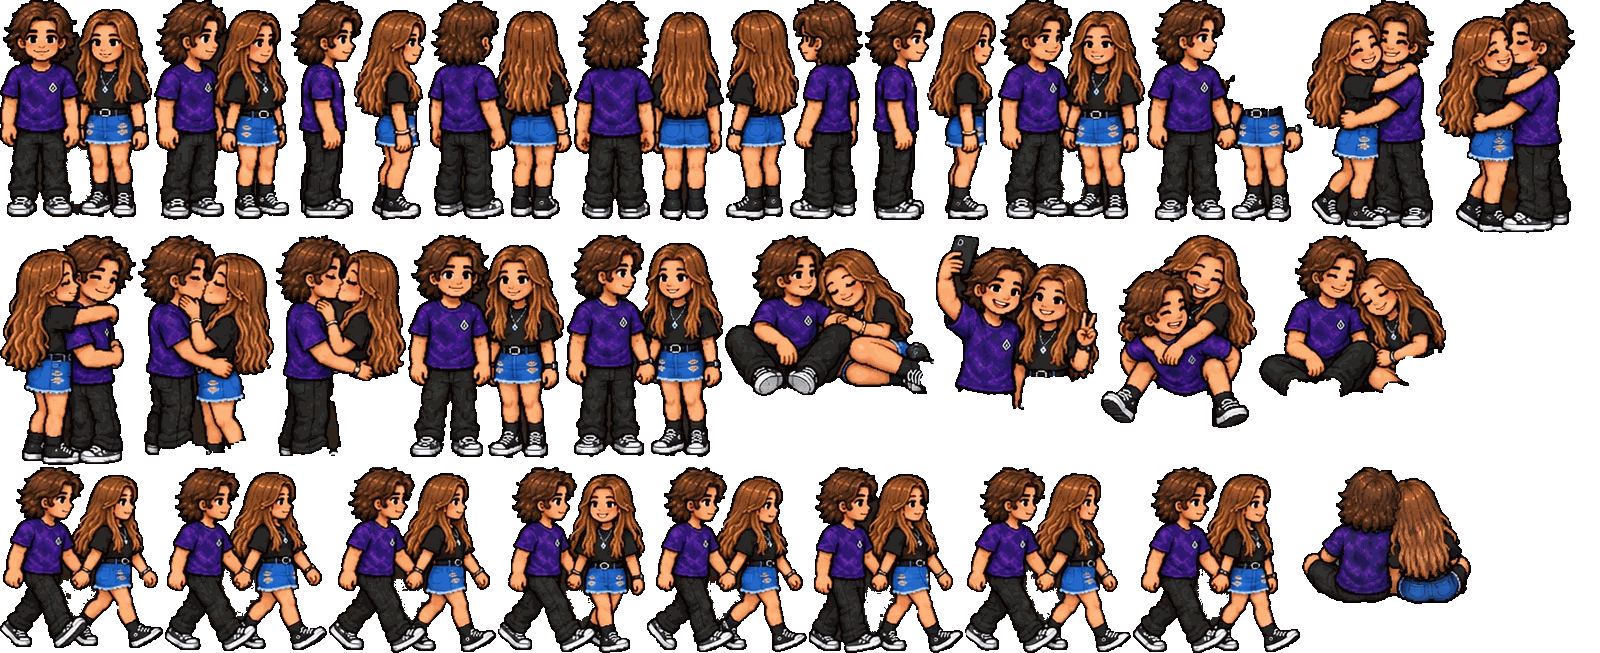
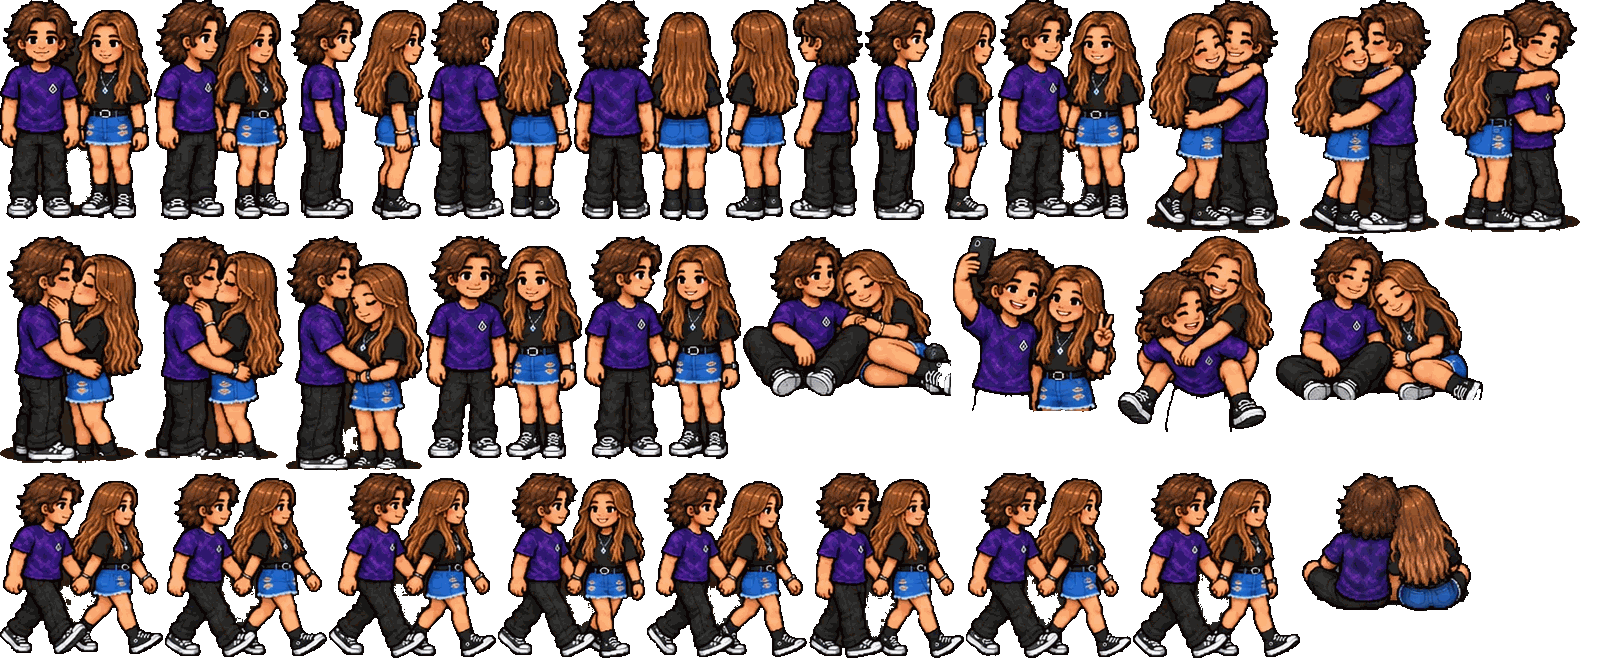
Give talking its own key and button; fix cut-off kiss and hug frames
T (or a pink TALK button on touch) starts a chat, separate from E / the
action button, so talking beside the couch can't sit you down; E is also
ignored briefly after a chat ends. The couple sheet's hug/kiss cells were
shifted by one, and the kiss frames lost their feet; both are re-cut.

Claude-Session: https://claude.ai/code/session_01CYk3xYTLtQ9wMMS1b1SGUS

diff --git a/game.js b/game.js
@@ -253,6 +253,9 @@ const KEY_DIRS = {
 };
 
 const ACTION_KEYS = ['KeyE', 'Space', 'Enter'];
+// Talking has its own key (and button) so it never gets mixed up with
+// sitting down when the other person is next to the couch.
+const TALK_KEYS = ['KeyT', 'KeyQ'];
 
 window.addEventListener('keydown', (e) => {
   if (ff.active) {
@@ -276,6 +279,11 @@ window.addEventListener('keydown', (e) => {
   if (ACTION_KEYS.includes(e.code)) {
     e.preventDefault();
     if (!e.repeat) action(); // holding doesn't count; you have to mash it
+    return;
+  }
+  if (TALK_KEYS.includes(e.code)) {
+    e.preventDefault();
+    if (!e.repeat) talkAction();
     return;
   }
   if (KEY_DIRS[e.code] || e.code.startsWith('Shift')) e.preventDefault();
@@ -318,6 +326,16 @@ for (const ev of ['pointerup', 'pointercancel', 'pointerleave']) {
   runBtn.addEventListener(ev, () => {
     ff.touchJump = false;
   });
+}
+
+const talkBtn = document.getElementById('talk');
+talkBtn.addEventListener('pointerdown', (e) => {
+  e.preventDefault();
+  talkBtn.classList.add('active');
+  talkAction();
+});
+for (const ev of ['pointerup', 'pointercancel', 'pointerleave']) {
+  talkBtn.addEventListener(ev, () => talkBtn.classList.remove('active'));
 }
 
 const actionBtn = document.getElementById('action');
@@ -457,11 +475,19 @@ function updateFade(dt) {
   if (fade.t >= FADE_TIME * 2) fade.door = null;
 }
 
+// T / TALK: start a chat, or move it on like E does.
+function talkAction() {
+  if (dialogue.active) advanceDialogue();
+  else if (canKiss() && !fade.door && !book.active && performance.now() - dialogue.endedAt > TALK_GRACE) startTalk();
+}
+
 function action() {
   if (dialogue.active) {
     advanceDialogue();
     return;
   }
+  // Extra presses right after a chat ends don't sit you down or open a door.
+  if (performance.now() - dialogue.endedAt < TALK_GRACE) return;
   if (fade.door || book.active) return;
   if (player.seat) {
     if (cuddle.active) cuddleKiss();
@@ -472,10 +498,6 @@ function action() {
     const door = nearestDoor();
     if (door) useDoor(door);
     else endTogether();
-    return;
-  }
-  if (canKiss()) {
-    startTalk();
     return;
   }
   if (nearPoop()) {
@@ -527,7 +549,6 @@ function updateActionButton() {
   let label = '';
   if (player.seat) label = cuddle.active ? 'KISS' : isGaming() ? 'HIT' : 'READ';
   else if (together.mode) label = nearestDoor()?.label ?? (together.mode === 'piggy' ? 'HOP OFF' : 'LET GO');
-  else if (canKiss()) label = 'TALK';
   else if (nearPoop()) label = 'PICK UP';
   else if (nearBin()) label = 'TRASH';
   else if (nearestDoor()) label = nearestDoor().label;
@@ -536,6 +557,7 @@ function updateActionButton() {
   if (dialogue.active) label = 'NEXT';
   if (actionBtn.textContent !== label) actionBtn.textContent = label;
   actionBtn.disabled = !label;
+  talkBtn.disabled = dialogue.active || !canKiss() || !!fade.door || book.active;
 }
 
 // ---- TV --------------------------------------------------------------------
@@ -1901,7 +1923,8 @@ const KISS_TALKS = [
   [['b', 'The dog is staring at us, you know.'], ['a', "Let him stare. He's jealous."], ['b', 'Fair. Okay, my turn to steal some kisses.']],
   [['b', "I'm keeping count. That's at least a dozen."], ['a', 'Then I owe you another dozen.'], ['b', "I'll hold you to that."]],
 ];
-const dialogue = { active: false, lines: [], i: 0, shown: 0, onDone: null, talk: 0, menu: null };
+const dialogue = { active: false, lines: [], i: 0, shown: 0, onDone: null, talk: 0, menu: null, endedAt: -1e9 };
+const TALK_GRACE = 450; // ms after a chat ends when E is ignored
 
 // ---- Talking ----------------------------------------------------------------------
 // Walk up to the other person and press TALK. They say something, and a menu
@@ -2276,35 +2299,35 @@ function startDogWalk() {
 // on the left; it's mirrored when she's on the left.
 const coupleImg = loadImage('assets/couple.png');
 const COUPLE = {
-  front: [0, 0, 152, 218],
+  front: [0, 0, 152, 219],
   frontRight: [154, 0, 135, 220],
   right: [291, 0, 135, 220],
   backRight: [428, 0, 144, 219],
   back: [574, 0, 150, 221],
   backLeft: [726, 0, 137, 221],
   left: [865, 0, 131, 220],
-  frontLeft: [998, 0, 147, 219],
-  hug: [1147, 0, 156, 222],
-  hugSide: [1305, 0, 129, 229],
-  hugBack: [1436, 0, 139, 233],
-  kiss: [0, 235, 136, 230],
-  kissSide: [138, 235, 136, 220],
-  foreheadKiss: [276, 235, 130, 221],
-  sideBySide: [408, 235, 156, 223],
-  holdHands: [566, 235, 157, 222],
-  cuddleSit: [725, 235, 209, 161],
-  selfie: [936, 235, 163, 175],
-  piggyback: [1101, 235, 156, 193],
-  lean: [1259, 235, 187, 162],
-  walk0: [0, 467, 163, 181],
-  walk1: [165, 467, 162, 184],
-  walk2: [329, 467, 167, 186],
-  walk3: [498, 467, 147, 186],
-  walk4: [647, 467, 160, 185],
-  walk5: [809, 467, 154, 186],
-  walk6: [965, 467, 166, 186],
-  walk7: [1133, 467, 167, 186],
-  sitBack: [1302, 467, 169, 137],
+  frontLeft: [998, 0, 147, 220],
+  hug: [1147, 0, 143, 233],
+  hugSide: [1292, 0, 147, 234],
+  hugBack: [1441, 0, 139, 232],
+  kiss: [0, 236, 143, 227],
+  kissSide: [145, 236, 139, 224],
+  foreheadKiss: [286, 236, 138, 235],
+  sideBySide: [426, 236, 156, 224],
+  holdHands: [584, 236, 157, 223],
+  cuddleSit: [743, 236, 208, 161],
+  selfie: [953, 236, 163, 176],
+  piggyback: [1118, 236, 156, 196],
+  lean: [1276, 236, 207, 164],
+  walk0: [0, 473, 163, 181],
+  walk1: [165, 473, 162, 184],
+  walk2: [329, 473, 167, 185],
+  walk3: [498, 473, 147, 185],
+  walk4: [647, 473, 160, 184],
+  walk5: [809, 473, 155, 185],
+  walk6: [966, 473, 165, 185],
+  walk7: [1133, 473, 167, 185],
+  sitBack: [1302, 473, 169, 138],
 };
 const COUPLE_K = 0.82; // sheet px to map px, so they match the single sprites
 const COUPLE_WALK = 8; // walk frames per stride cycle
@@ -2678,6 +2701,7 @@ function advanceDialogue() {
   const line = dialogue.lines[dialogue.i];
   if (!line) {
     dialogue.active = false;
+    dialogue.endedAt = performance.now();
     dialogue.onDone?.();
     return;
   }
@@ -2689,6 +2713,7 @@ function advanceDialogue() {
   dialogue.shown = 0;
   if (dialogue.i >= dialogue.lines.length) {
     dialogue.active = false;
+    dialogue.endedAt = performance.now();
     const done = dialogue.onDone;
     dialogue.onDone = null;
     done?.();
@@ -3600,14 +3625,15 @@ function drawHud() {
   // Top of her head in map pixels: seated sprites are shorter than standing.
   const headTop = playerHeadHeight() + 4 * room.scale;
   const sx = toScreenX(anchor.x);
-  const sy = toScreenY(anchor.y - headTop);
+  // Stack above the "talk" hint when that's showing too
+  const sy = toScreenY(anchor.y - headTop) - (canKiss() && partner.room === room.id ? 28 : 0);
 
   if (nearestDoor() && !fade.door) {
     const door = nearestDoor();
     ctx.font = '600 12px ui-rounded, "SF Pro Rounded", system-ui, sans-serif';
     const text = isTouch ? `Tap ${door.label} to ${door.prompt}` : `Press E to ${door.prompt}`;
     pill(text, sx, sy - 14, 'rgba(28, 25, 21, 0.8)', '#efe6d8');
-  } else if (!player.seat && nearestSeat()) {
+  } else if (!player.seat && !together.mode && nearestSeat()) {
     ctx.font = '600 12px ui-rounded, "SF Pro Rounded", system-ui, sans-serif';
     const what = gamesHere() ? 'play video games' : 'read';
     pill(isTouch ? `Tap SIT to ${what}` : `Press E to sit and ${what}`, sx, sy - 14, 'rgba(28, 25, 21, 0.8)', '#efe6d8');
@@ -3899,7 +3925,7 @@ function nearPartner() {
 }
 
 function canKiss() {
-  return !together.mode && !player.seat && kiss.cooldown <= 0 && kiss.celebrate <= 0 && nearPartner();
+  return !together.mode && !player.seat && kiss.celebrate <= 0 && !dialogue.active && nearPartner();
 }
 
 // Take control of the partner; you stay behind in their place.
@@ -4036,12 +4062,12 @@ function drawHearts() {
 
 // "Press E to talk" over the other person when you're close enough.
 function drawKissHud() {
-  if (partner.room !== room.id || kiss.cooldown > 0 || kiss.celebrate > 0 || player.seat || dialogue.active || together.mode) return;
+  if (partner.room !== room.id || kiss.celebrate > 0 || player.seat || dialogue.active || together.mode) return;
   if (!nearPartner()) return;
   const sx = toScreenX(partner.x);
   const sy = toScreenY(partner.y - poseHeight(partner.who, partnerPose()) - 6);
   ctx.font = '600 12px ui-rounded, "SF Pro Rounded", system-ui, sans-serif';
-  pill(isTouch ? 'Tap TALK to chat' : 'Press E to talk', sx, sy - 14, 'rgba(28, 25, 21, 0.8)', '#efe6d8');
+  pill(isTouch ? 'Tap TALK to chat' : 'Press T to talk', sx, sy - 14, 'rgba(28, 25, 21, 0.8)', '#efe6d8');
 }
 
 // Draw everyone back to front so whoever is lower on screen is in front.

diff --git a/index.html b/index.html
@@ -15,6 +15,7 @@
       --pad-border: rgba(255, 244, 225, 0.28);
       --pad-active: rgba(255, 244, 225, 0.32);
       --accent: #d98c4a;
+      --talk: #e68aa8;
       --font-ui: ui-rounded, "SF Pro Rounded", system-ui, sans-serif;
       color-scheme: dark;
     }
@@ -89,6 +90,17 @@
     }
     #dpad .action.active { background: var(--accent); filter: brightness(1.2); transform: scale(0.94); }
     #dpad .action:disabled { visibility: hidden; }
+    /* Talking gets its own button so it never sits you down by accident */
+    #dpad .talk {
+      grid-column: 1; grid-row: 3;
+      font-size: 13px;
+      letter-spacing: 0.06em;
+      background: var(--talk);
+      border-color: var(--talk);
+      color: var(--bg);
+    }
+    #dpad .talk.active { filter: brightness(1.2); transform: scale(0.94); }
+    #dpad .talk:disabled { visibility: hidden; }
 
     @media (hover: none), (pointer: coarse) {
       #dpad { display: grid; }
@@ -111,7 +123,7 @@
 </head>
 <body>
   <div id="help">
-    <span class="keys">Move: Arrows / WASD &middot; Run: Shift &middot; Sit, read, talk, doors, dog walks: E or Space &middot; Hitboxes: H</span>
+    <span class="keys">Move: Arrows / WASD &middot; Run: Shift &middot; Talk: T &middot; Sit, read, doors, dog walks: E or Space &middot; Hitboxes: H</span>
     <span class="touch">Hold the arrows to walk &middot; tap RUN to speed up &middot; walk to the couch to read</span>
   </div>
   <div id="game"><canvas id="canvas"></canvas></div>
@@ -121,6 +133,7 @@
     <button class="run" id="run" aria-pressed="false">RUN</button>
     <button class="right" data-dir="right" aria-label="Right">&#9654;</button>
     <button class="down" data-dir="down" aria-label="Down">&#9660;</button>
+    <button class="talk" id="talk" disabled>TALK</button>
     <button class="action" id="action" disabled></button>
   </div>
   <script src="game.js"></script>

diff --git a/README.md b/README.md
@@ -25,7 +25,7 @@ A hosted copy runs inside the Claude app: https://claude.ai/artifact/3jkuJWVcY6z
 
 Walk up to the couch to sit and read (she faces the TV, so you see her from behind). Reading opens the book: drag the finger along every line to turn the text from black to yellow before the timer runs out, and the page turns. Read 4 pages to finish the chapter, then she stands up. The dog-walk alert waits while any minigame is going on. Her dog tags along behind her and hops up to lie beside her whenever she sits down.
 
-He stands in the kitchen, between the island and the counters. Walk up and press E (or tap TALK) to chat: they say hi and a menu of things to say pops up (pick with up/down or a tap, confirm with E/NEXT). Whatever you pick, you say it and they answer, and most answers bring up a new menu, so a chat can go a few different ways (`TALK_TREE` in `game.js`). Options in pink with a ♥ lead to a kiss, and each of those kisses has its own lines afterwards (some lead on into more talking or a cuddle). Some chats end with the two of you cuddling on the couch (or the end of the bed in the bedroom) with the dog curled up next to you: hearts drift up, E / KISS gives a little kiss, and moving gets you up. Others end with you taking the dog straight out to the yard. When the two of them are together they use shared art (`assets/couple.png`): kisses and hugs show them kissing or hugging (some talk-menu kisses are forehead kisses), cuddles show them sitting together on the couch or leaning on each other on the bed, "walk with me" has them walk hand in hand (you steer both; E lets go, and doors take you through together), "Surprise me" can end in a piggyback ride, and "Hold still, I want a picture" takes a selfie that pops up as a polaroid. Choosing Kiss from the main menu makes them cheer and hop while hearts float away, and then you swap: you play as him (`assets/him.png`) and she waits where you left her. Talk to her and choose Kiss to swap back. After each kiss the two of them have a short chat in the same text box before you swap, and there's a hidden 5 second cooldown before the next one. Whoever you're not playing moves around the apartment on their own (couch, kitchen, TV, window), and stops to wave when you walk up. Their names are in `NAMES` in `game.js`. Playing as him, the living-room couch is for video games instead of reading: sitting down starts **Forest Falls**, a real side-scrolling platformer (`assets/forest.png`, `assets/forest-bg.jpg`) shown full screen and mirrored on the TV. Run with left/right, jump with Space/Up (or the JUMP button), attack with E/X (or HIT), drop through planks with Down, quit with Esc or the ✕. Stomp or slash slimes, birds and bats, slash the biting plants, collect coins, gems and hearts, and reach the flag. Every third level ends with a stone golem boss. Lose all four hearts and it's game over; your best level is remembered.
+He stands in the kitchen, between the island and the counters. Walk up and press T (or tap the pink TALK button) to chat. Talking has its own key and button, separate from E / the action button that sits, opens doors and so on, so chatting next to the couch never sits you down by accident: they say hi and a menu of things to say pops up (pick with up/down or a tap, confirm with E/NEXT). Whatever you pick, you say it and they answer, and most answers bring up a new menu, so a chat can go a few different ways (`TALK_TREE` in `game.js`). Options in pink with a ♥ lead to a kiss, and each of those kisses has its own lines afterwards (some lead on into more talking or a cuddle). Some chats end with the two of you cuddling on the couch (or the end of the bed in the bedroom) with the dog curled up next to you: hearts drift up, E / KISS gives a little kiss, and moving gets you up. Others end with you taking the dog straight out to the yard. When the two of them are together they use shared art (`assets/couple.png`): kisses and hugs show them kissing or hugging (some talk-menu kisses are forehead kisses), cuddles show them sitting together on the couch or leaning on each other on the bed, "walk with me" has them walk hand in hand (you steer both; E lets go, and doors take you through together), "Surprise me" can end in a piggyback ride, and "Hold still, I want a picture" takes a selfie that pops up as a polaroid. Choosing Kiss from the main menu makes them cheer and hop while hearts float away, and then you swap: you play as him (`assets/him.png`) and she waits where you left her. Talk to her and choose Kiss to swap back. After each kiss the two of them have a short chat in the same text box before you swap, and there's a hidden 5 second cooldown before the next one. Whoever you're not playing moves around the apartment on their own (couch, kitchen, TV, window), and stops to wave when you walk up. Their names are in `NAMES` in `game.js`. Playing as him, the living-room couch is for video games instead of reading: sitting down starts **Forest Falls**, a real side-scrolling platformer (`assets/forest.png`, `assets/forest-bg.jpg`) shown full screen and mirrored on the TV. Run with left/right, jump with Space/Up (or the JUMP button), attack with E/X (or HIT), drop through planks with Down, quit with Esc or the ✕. Stomp or slash slimes, birds and bats, slash the biting plants, collect coins, gems and hearts, and reach the flag. Every third level ends with a stone golem boss. Lose all four hearts and it's game over; your best level is remembered.
 
 Walk up to the door at the top of the apartment and press E (or tap ENTER) to go into the bedroom; you come in through its bottom door. Stand by that door and press E (or tap EXIT) to go back. Your dog comes with you.
 
